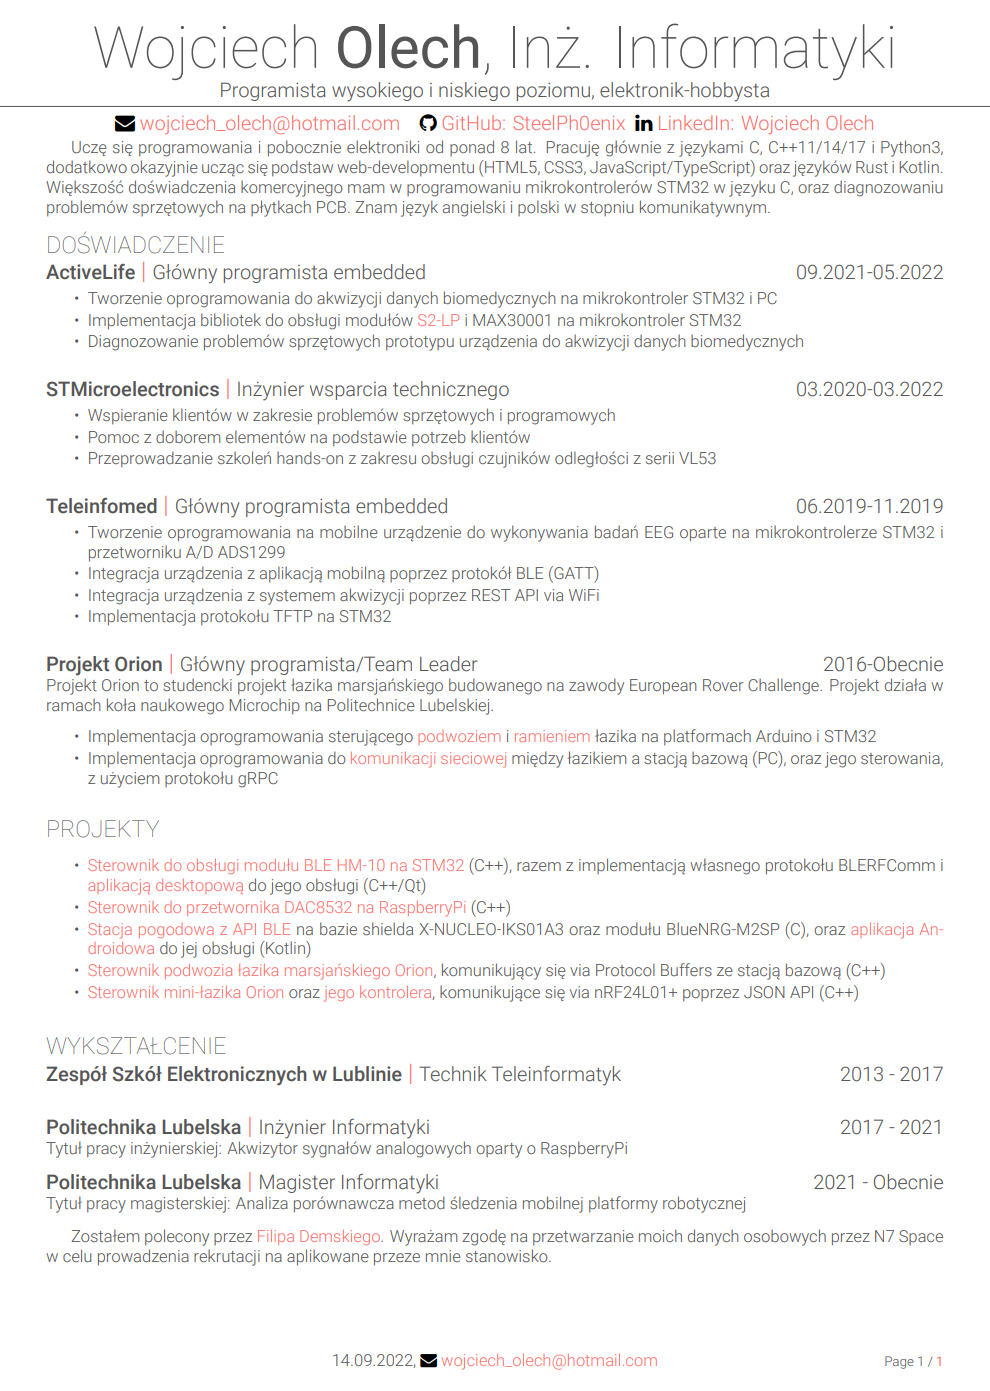
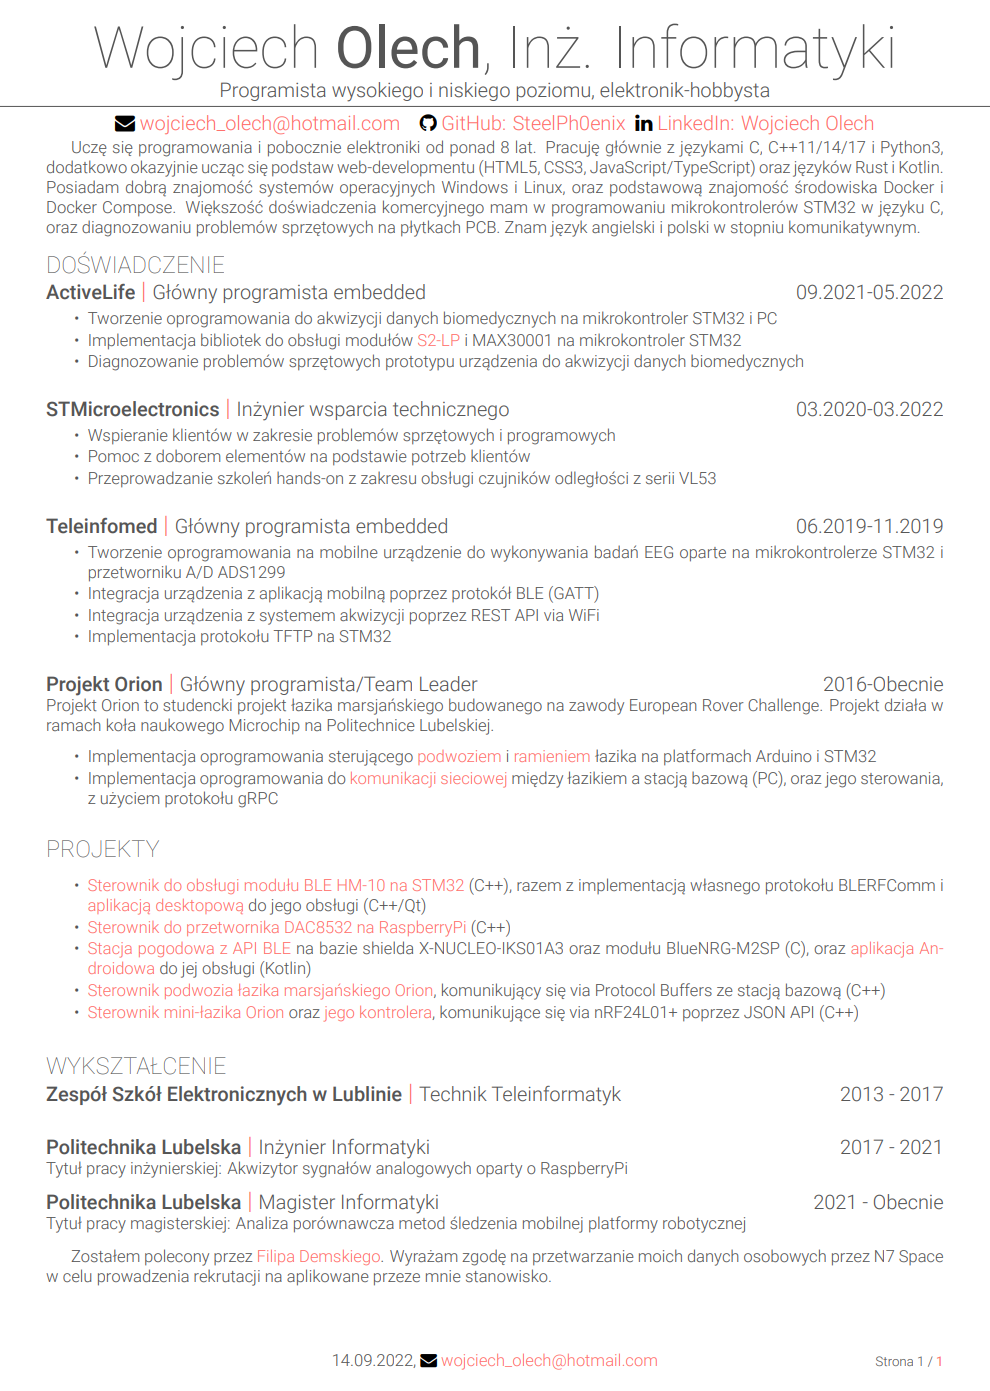
added mention of linux/windows/docker, updated image version

Changed region(s): [[0.0303, 0.1237, 0.9697, 0.9274], [0.8788, 0.9583, 0.9091, 0.9892]]

diff --git a/my_resume_pl.tex b/my_resume_pl.tex
@@ -14,7 +14,7 @@
 
 \begin{document}
 
-Uczę się programowania i pobocznie elektroniki od ponad 8 lat. Pracuję głównie z językami C, C++11/14/17 i Python3, dodatkowo okazyjnie ucząc się podstaw web-developmentu (HTML5, CSS3, JavaScript/TypeScript) oraz języków Rust i Kotlin. Większość doświadczenia komercyjnego mam w programowaniu mikrokontrolerów STM32 w języku C, oraz diagnozowaniu problemów sprzętowych na płytkach PCB. Znam język angielski i polski w stopniu komunikatywnym.
+Uczę się programowania i pobocznie elektroniki od ponad 8 lat. Pracuję głównie z językami C, C++11/14/17 i Python3, dodatkowo okazyjnie ucząc się podstaw web-developmentu (HTML5, CSS3, JavaScript/TypeScript) oraz języków Rust i Kotlin. Posiadam dobrą znajomość systemów operacyjnych Windows i Linux, oraz podstawową znajomość środowiska Docker i Docker Compose. Większość doświadczenia komercyjnego mam w programowaniu mikrokontrolerów STM32 w języku C, oraz diagnozowaniu problemów sprzętowych na płytkach PCB. Znam język angielski i polski w stopniu komunikatywnym.
 
 \vspace{\topsep}
 
